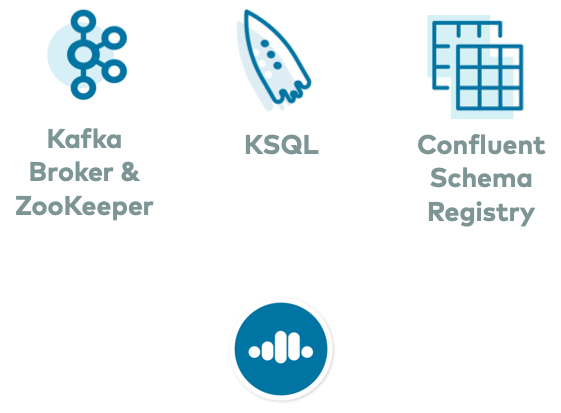
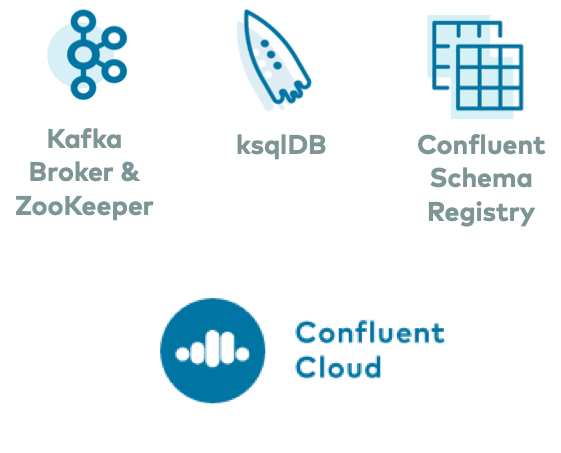
More ksqlDB changes

diff --git a/connect-streams-pipeline/README.md b/connect-streams-pipeline/README.md
@@ -96,10 +96,10 @@ Detailed walk-thru of this example is available in the whitepaper [Kafka Seriali
 
 ![image](images/example_5.png)
 
-## Example 6: JDBC source connector with Avro to KSQL -> Key:Long and Value:Avro
+## Example 6: JDBC source connector with Avro to ksqlDB -> Key:Long and Value:Avro
 
 * [Kafka Connect JDBC source connector](jdbcavroksql-connector.properties) produces Avro values, and null keys, to a Kafka topic.
-* [KSQL](jdbcavro_statements.sql) reads from the Kafka topic and then uses `PARTITION BY` to create a new stream of messages with `BIGINT` keys.
+* [ksqlDB](jdbcavro_statements.sql) reads from the Kafka topic and then uses `PARTITION BY` to create a new stream of messages with `BIGINT` keys.
 
 ![image](images/example_6.png)
 
